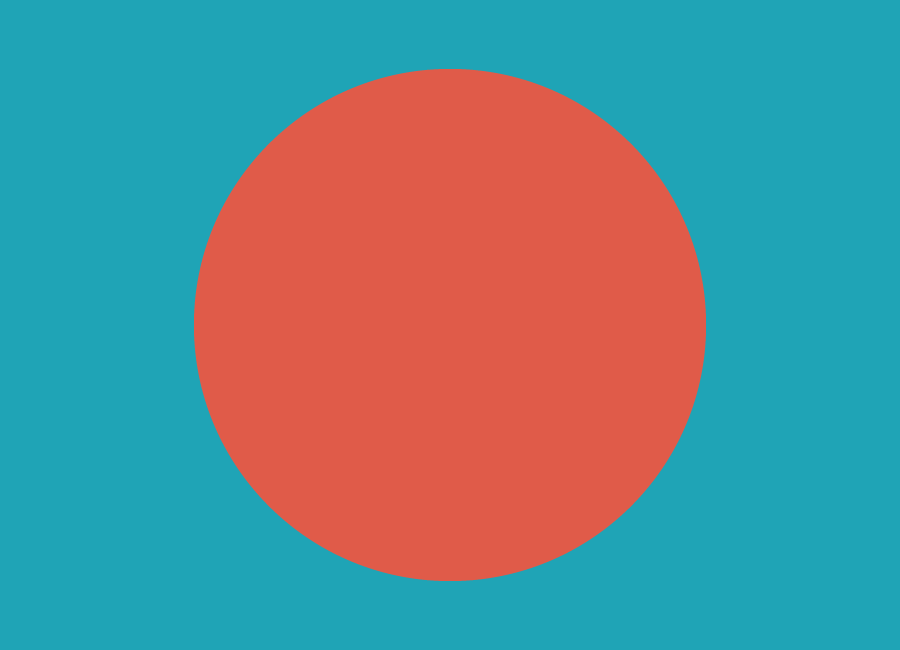
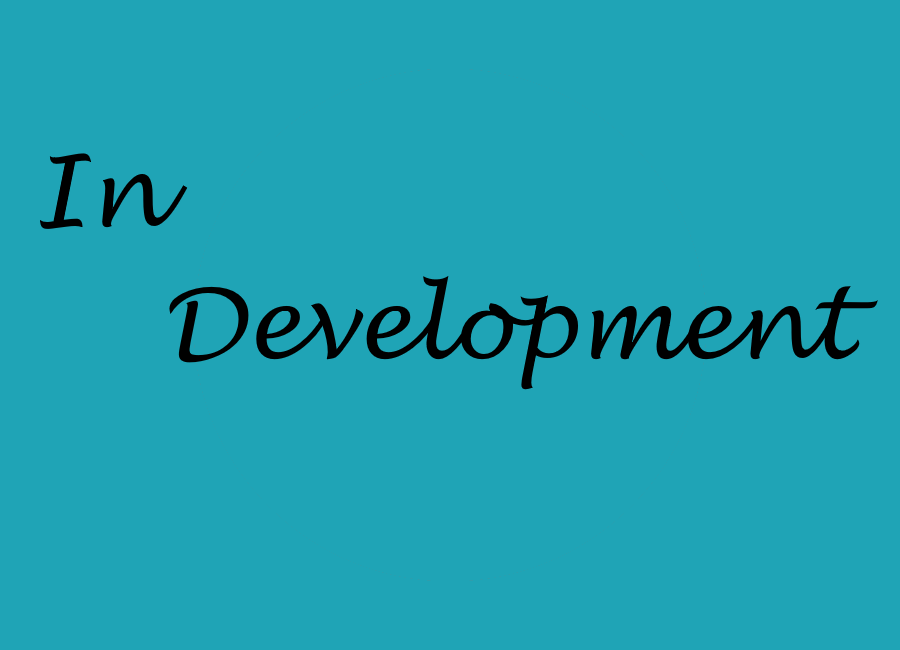
Updated Portfolio

diff --git a/index.html b/index.html
@@ -112,41 +112,11 @@
                                 <i class="fa fa-search-plus fa-3x"></i>
                             </div>
                         </div>
-                        <img src="img/portfolio/placeholder.png" class="img-responsive" alt="">
+                        <img src="img/portfolio/WorldBelowIcon.png" class="img-responsive" alt="">
                     </a>
                 </div>
                 <div class="col-sm-4 portfolio-item">
                     <a href="#portfolioModal3" class="portfolio-link" data-toggle="modal">
-                        <div class="caption">
-                            <div class="caption-content">
-                                <i class="fa fa-search-plus fa-3x"></i>
-                            </div>
-                        </div>
-                        <img src="img/portfolio/placeholder.png" class="img-responsive" alt="">
-                    </a>
-                </div>
-                <div class="col-sm-4 portfolio-item">
-                    <a href="#portfolioModal4" class="portfolio-link" data-toggle="modal">
-                        <div class="caption">
-                            <div class="caption-content">
-                                <i class="fa fa-search-plus fa-3x"></i>
-                            </div>
-                        </div>
-                        <img src="img/portfolio/placeholder.png" class="img-responsive" alt="">
-                    </a>
-                </div>
-                <div class="col-sm-4 portfolio-item">
-                    <a href="#portfolioModal5" class="portfolio-link" data-toggle="modal">
-                        <div class="caption">
-                            <div class="caption-content">
-                                <i class="fa fa-search-plus fa-3x"></i>
-                            </div>
-                        </div>
-                        <img src="img/portfolio/placeholder.png" class="img-responsive" alt="">
-                    </a>
-                </div>
-                <div class="col-sm-4 portfolio-item">
-                    <a href="#portfolioModal6" class="portfolio-link" data-toggle="modal">
                         <div class="caption">
                             <div class="caption-content">
                                 <i class="fa fa-search-plus fa-3x"></i>
@@ -171,11 +141,6 @@
             <div class="row">
                 <div class="col-lg-8 col-lg-offset-2 text-center">
                     <p>I am a student at the University of Michigan, studying Computer Science Engineering.<br>This site is a place for me to show off some of my personal projects.<br>Feel free to contact me below if you are interested in my work.</p>
-                </div>
-                <div class="col-lg-8 col-lg-offset-2 text-center">
-                    <a download="files/resume.pdf" class="btn btn-lg btn-outline">
-                        <i class="fa fa-download"></i> Download R&eacute;sum&eacute;
-                    </a>
                 </div>
             </div>
         </div>
@@ -297,14 +262,16 @@
                             <h2>Small Fry's Big Adventure</h2>
                             <hr class="star-primary">
                             <img src="img/portfolio/SmallFry.jpg" class="img-responsive img-centered" alt="">
-                            <p>Description</p>
+                            <p class="text-left">This game was created for a 48-hour Game Jam at the University of Michigan. The theme for this game jam was randomly selected for each team at the start of the competition. As a result, this game was developed from conception to completion in 48 hours.</p>
+                            <p class="text-left">My work on this project included the dialogue engine, as well as miscellaneous coding and level design throughout. I also helped my teammates learn how to use version control, which made the development process very smooth.</p>
+                            <p class="text-left">We ended up taking second place in the competition, and won an award for "Best Artwork". We also won a trophy for "Most Useless Feature", for including the ability to dance with the D-pad. We originally planned another mechanic involving dancing but ran out of time to implement it. However, our artist worked so hard on the dance animations that we couldn't resist leaving them in the final product.</p>
                             <ul class="list-inline item-details">
                                 <ul class="list-inline">
                                     <li>
                                         <a href="https://bitbucket.org/cariehl/spacejam/src/859768e2b629c866796591dc0c54b9e94508b2e6?at=master" class="btn btn-default"> Source</a>
                                     </li>
                                     <li>
-                                        <a href="https://www.linkedin.com/in/cooper-riehl-73071090" class="btn btn-default"> Play</a>
+                                        <a href="" class="btn btn-default"> Play</a>
                                     </li>
                                 </ul>
                             </ul>
@@ -327,23 +294,22 @@
                 <div class="row">
                     <div class="col-lg-8 col-lg-offset-2">
                         <div class="modal-body">
-                            <h2>Project Title</h2>
+                            <h2>The World Below</h2>
                             <hr class="star-primary">
-                            <img src="img/portfolio/cake.png" class="img-responsive img-centered" alt="">
-                            <p>Use this area of the page to describe your project. The icon above is part of a free icon set by <a href="https://sellfy.com/p/8Q9P/jV3VZ/">Flat Icons</a>. On their website, you can download their free set with 16 icons, or you can purchase the entire set with 146 icons for only $12!</p>
+                            <img src="img/portfolio/WorldBelowIcon.png" class="img-responsive img-centered" alt="">
+                            <p class="text-left">The World Below is an in-development adventure game. It is rooted heavily in Filipino folklore, and tells the story of a girl who has fallen from her home in the sky. The player must explore the world and find a way to get back home.</p>
+                            <p class="text-left">I am currently contributing heavily to the software design of this project, as well as designing new mechanics and levels for the player to encounter. The team consists of four dedicated individuals, and we are keeping in constant contact with each other this summer in order to continue our development.</p>
                             <ul class="list-inline item-details">
-                                <li>Client:
-                                    <strong><a href="http://startbootstrap.com">Start Bootstrap</a>
-                                    </strong>
-                                </li>
-                                <li>Date:
-                                    <strong><a href="http://startbootstrap.com">April 2014</a>
-                                    </strong>
-                                </li>
-                                <li>Service:
-                                    <strong><a href="http://startbootstrap.com">Web Development</a>
-                                    </strong>
-                                </li>
+                                <ul class="list-inline">
+                                    <li>
+                                        <a href="https://github.com/TheWorldBelowGame/TheWorldBelow" class="btn btn-default"> Source</a>
+                                    </li>
+                                    <!--
+                                    <li>
+                                        <a href="" class="btn btn-default"> Play</a>
+                                    </li>
+                                    -->
+                                </ul>
                             </ul>
                             <button type="button" class="btn btn-default" data-dismiss="modal"><i class="fa fa-times"></i> Close</button>
                         </div>
@@ -364,135 +330,22 @@
                 <div class="row">
                     <div class="col-lg-8 col-lg-offset-2">
                         <div class="modal-body">
-                            <h2>Project Title</h2>
+                            <h2>Coming Soon</h2>
                             <hr class="star-primary">
-                            <img src="img/portfolio/circus.png" class="img-responsive img-centered" alt="">
-                            <p>Use this area of the page to describe your project. The icon above is part of a free icon set by <a href="https://sellfy.com/p/8Q9P/jV3VZ/">Flat Icons</a>. On their website, you can download their free set with 16 icons, or you can purchase the entire set with 146 icons for only $12!</p>
+                            <img src="img/portfolio/placeholder.png" class="img-responsive img-centered" alt="">
+                            <p></p>
+                            <!--
                             <ul class="list-inline item-details">
-                                <li>Client:
-                                    <strong><a href="http://startbootstrap.com">Start Bootstrap</a>
-                                    </strong>
-                                </li>
-                                <li>Date:
-                                    <strong><a href="http://startbootstrap.com">April 2014</a>
-                                    </strong>
-                                </li>
-                                <li>Service:
-                                    <strong><a href="http://startbootstrap.com">Web Development</a>
-                                    </strong>
-                                </li>
+                                <ul class="list-inline">
+                                    <li>
+                                        <a href="" class="btn btn-default"> Source</a>
+                                    </li>
+                                    <li>
+                                        <a href="" class="btn btn-default"> Play</a>
+                                    </li>
+                                </ul>
                             </ul>
-                            <button type="button" class="btn btn-default" data-dismiss="modal"><i class="fa fa-times"></i> Close</button>
-                        </div>
-                    </div>
-                </div>
-            </div>
-        </div>
-    </div>
-    <div class="portfolio-modal modal fade" id="portfolioModal4" tabindex="-1" role="dialog" aria-hidden="true">
-        <div class="modal-content">
-            <div class="close-modal" data-dismiss="modal">
-                <div class="lr">
-                    <div class="rl">
-                    </div>
-                </div>
-            </div>
-            <div class="container">
-                <div class="row">
-                    <div class="col-lg-8 col-lg-offset-2">
-                        <div class="modal-body">
-                            <h2>Project Title</h2>
-                            <hr class="star-primary">
-                            <img src="img/portfolio/game.png" class="img-responsive img-centered" alt="">
-                            <p>Use this area of the page to describe your project. The icon above is part of a free icon set by <a href="https://sellfy.com/p/8Q9P/jV3VZ/">Flat Icons</a>. On their website, you can download their free set with 16 icons, or you can purchase the entire set with 146 icons for only $12!</p>
-                            <ul class="list-inline item-details">
-                                <li>Client:
-                                    <strong><a href="http://startbootstrap.com">Start Bootstrap</a>
-                                    </strong>
-                                </li>
-                                <li>Date:
-                                    <strong><a href="http://startbootstrap.com">April 2014</a>
-                                    </strong>
-                                </li>
-                                <li>Service:
-                                    <strong><a href="http://startbootstrap.com">Web Development</a>
-                                    </strong>
-                                </li>
-                            </ul>
-                            <button type="button" class="btn btn-default" data-dismiss="modal"><i class="fa fa-times"></i> Close</button>
-                        </div>
-                    </div>
-                </div>
-            </div>
-        </div>
-    </div>
-    <div class="portfolio-modal modal fade" id="portfolioModal5" tabindex="-1" role="dialog" aria-hidden="true">
-        <div class="modal-content">
-            <div class="close-modal" data-dismiss="modal">
-                <div class="lr">
-                    <div class="rl">
-                    </div>
-                </div>
-            </div>
-            <div class="container">
-                <div class="row">
-                    <div class="col-lg-8 col-lg-offset-2">
-                        <div class="modal-body">
-                            <h2>Project Title</h2>
-                            <hr class="star-primary">
-                            <img src="img/portfolio/safe.png" class="img-responsive img-centered" alt="">
-                            <p>Use this area of the page to describe your project. The icon above is part of a free icon set by <a href="https://sellfy.com/p/8Q9P/jV3VZ/">Flat Icons</a>. On their website, you can download their free set with 16 icons, or you can purchase the entire set with 146 icons for only $12!</p>
-                            <ul class="list-inline item-details">
-                                <li>Client:
-                                    <strong><a href="http://startbootstrap.com">Start Bootstrap</a>
-                                    </strong>
-                                </li>
-                                <li>Date:
-                                    <strong><a href="http://startbootstrap.com">April 2014</a>
-                                    </strong>
-                                </li>
-                                <li>Service:
-                                    <strong><a href="http://startbootstrap.com">Web Development</a>
-                                    </strong>
-                                </li>
-                            </ul>
-                            <button type="button" class="btn btn-default" data-dismiss="modal"><i class="fa fa-times"></i> Close</button>
-                        </div>
-                    </div>
-                </div>
-            </div>
-        </div>
-    </div>
-    <div class="portfolio-modal modal fade" id="portfolioModal6" tabindex="-1" role="dialog" aria-hidden="true">
-        <div class="modal-content">
-            <div class="close-modal" data-dismiss="modal">
-                <div class="lr">
-                    <div class="rl">
-                    </div>
-                </div>
-            </div>
-            <div class="container">
-                <div class="row">
-                    <div class="col-lg-8 col-lg-offset-2">
-                        <div class="modal-body">
-                            <h2>Project Title</h2>
-                            <hr class="star-primary">
-                            <img src="img/portfolio/submarine.png" class="img-responsive img-centered" alt="">
-                            <p>Use this area of the page to describe your project. The icon above is part of a free icon set by <a href="https://sellfy.com/p/8Q9P/jV3VZ/">Flat Icons</a>. On their website, you can download their free set with 16 icons, or you can purchase the entire set with 146 icons for only $12!</p>
-                            <ul class="list-inline item-details">
-                                <li>Client:
-                                    <strong><a href="http://startbootstrap.com">Start Bootstrap</a>
-                                    </strong>
-                                </li>
-                                <li>Date:
-                                    <strong><a href="http://startbootstrap.com">April 2014</a>
-                                    </strong>
-                                </li>
-                                <li>Service:
-                                    <strong><a href="http://startbootstrap.com">Web Development</a>
-                                    </strong>
-                                </li>
-                            </ul>
+                            -->
                             <button type="button" class="btn btn-default" data-dismiss="modal"><i class="fa fa-times"></i> Close</button>
                         </div>
                     </div>
